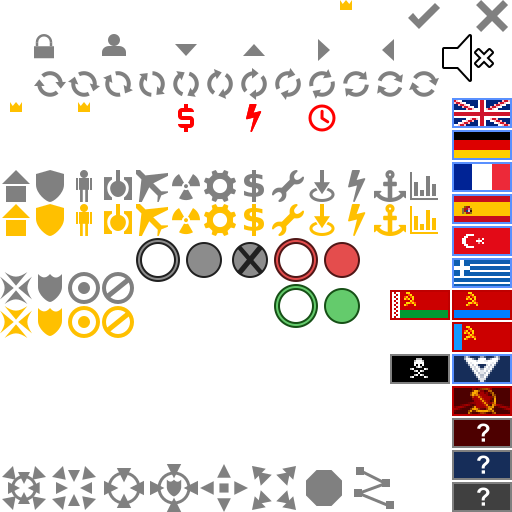
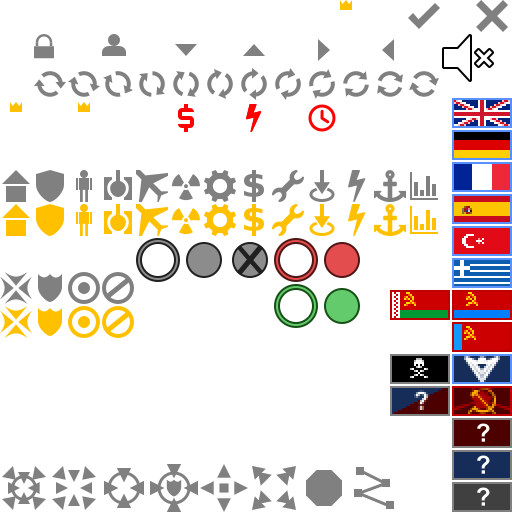
meowmeow

Changed region(s): [[0.75, 0.75, 0.9062, 0.8125]]

diff --git a/README.md b/README.md
@@ -35,7 +35,6 @@ new: Belarus
 
 Buildings
 - tech buildings leave behind a husk when destroyed, that can be restored to function with an engineer
-- the cloak detection gets paused while on low power of all defenses 
 - removed the tech requirement for Barracks and Ore Refinery
 - modified tech requirement for War Factory, Naval Yard, Submarine Pen and Radar Dome to be any Power Plant and a Ore Refinery
 - increased the range check of structures for buildable area by +1 (in effect this means: bases can be built more spaced out)
@@ -110,6 +109,15 @@ Communications Center
 Forward Command
 - the name of Forward Command extended with the word Post
 
+Defenses
+- the cloak detection gets paused while on low power of all defenses except the Pillboxes
+
+Pillbox
+- needs to be loaded in order to detect cloaked units
+
+Camo Pillbox
+- needs to be loaded in order to detect cloaked units
+
 Gun Turret
 - added a secondary anti-submarine depthcharge attack on Gun Turrets
 
@@ -142,7 +150,6 @@ new: Gates
 - Gates can be rotated uing the Toggle Variants hotkey (default:V)
 
 Infantry units
-- Units that have got both a anti-ground and anti-air weapon now have got them linked to share the weapon-reload time to prevent double-firing. This affects Rocket Soldier, Mobile Flak, Apache, and Phase Transport units
 
 Rifle Infantry
 - Weapon range of Rifle Infantry reduced by -1c
@@ -178,6 +185,7 @@ Shock Trooper
 Spy
 - the Spy no longer can attack
 - British Spy changed to Armed Spy that can attack, and uses a sniper while in pillbox
+- the Armed Spy can be produced with veterancy rank when infiltrated an enemy barracks
 - The production veterancy from infiltrating enemy unit production got changed to be timed instead of permanent, and lasts for 2min duration
 
 Thief
@@ -208,6 +216,8 @@ Supply Truck
 
 Jeep
 - ^LightMG damage multiplier versus Light Armor reduced to 30 from 40
+- can detect cloaked units within 2c512 radius when loaded
+- comes with a Rifle Infantry passenger by default
 
 Mobile Flak
 - linked anti-ground and anti-air attacks to prevent double-firing
@@ -257,6 +267,7 @@ Minelayer
 Mobile Radar Jammer
 - Mobile Radar Jammer tech requirement changed to Radar Dome from Allies Tech Center
 - Mobile Radar Jammer has become specific to England faction
+- two hostile Mobile Radar Jammers cancel the missile jamming of each other out when within 5c0 radius
 
 Chrono Tank
 - Chrono Tank teleport recharges in 15sec, down from 20sec
@@ -304,6 +315,8 @@ Submarine
 - on Submarines added a secondary Grenadelauncher weapon for use against targets on land
 - ensured that Torpedoes cannot get jammed
 - Speed of Torpedoes increased to 125 from 85
+- minimum range of 2 added to Torpedo weapon
+- Submarine cost reduced to 850$ from 950$
 
 Missile Submarine
 - Missile Submarine tech requirement changed to Radar Dome from Soviet Tech Center
@@ -322,11 +335,13 @@ Air units
 Yak Attack Plane
 - cost of Yak Attack Plane decreased to 1150$ from 1350$
 - range of Yak Attack Plane's machineguns slightly increased to 6c830 from 6c0
+- given a secondary weapon so that it can attack enemy aircraft
 
 MiG Attack Plane
 - cost of MiG Attack Plane decreased to 1800$ from 2000$
 - MiG Attack Plane obtained +2 ammo, in effect this means it fires one more time before returning
 - Increase hitpoints of MiG Attack Plane by +1000, from 8000 to 9000
+- Maverick missiles set to target submarines in addition
 
 Chinook
 - Chinook renamed to Air Transport
@@ -340,9 +355,12 @@ Longbow
 - Apache cost reduced to 1500$ from 2000$
 - increased reload delay from 34 and 30 to 35 for both of Apache attacks
 - linked anti-ground and anti-air attacks to prevent double-firing
+- the Apache can be deployed to detect submarines when charged up
+- Hellfire missiles can shoot at detected submarines
 
 Hind
 - Hind enabled to be built for Soviets with a Soviet Tech Center from the Helipad
+- the Hind can throw depthcharges at detected submarines. this does not use ammo
 
 Support Powers
 - made all Airfield support powers pause recharging while on low power
